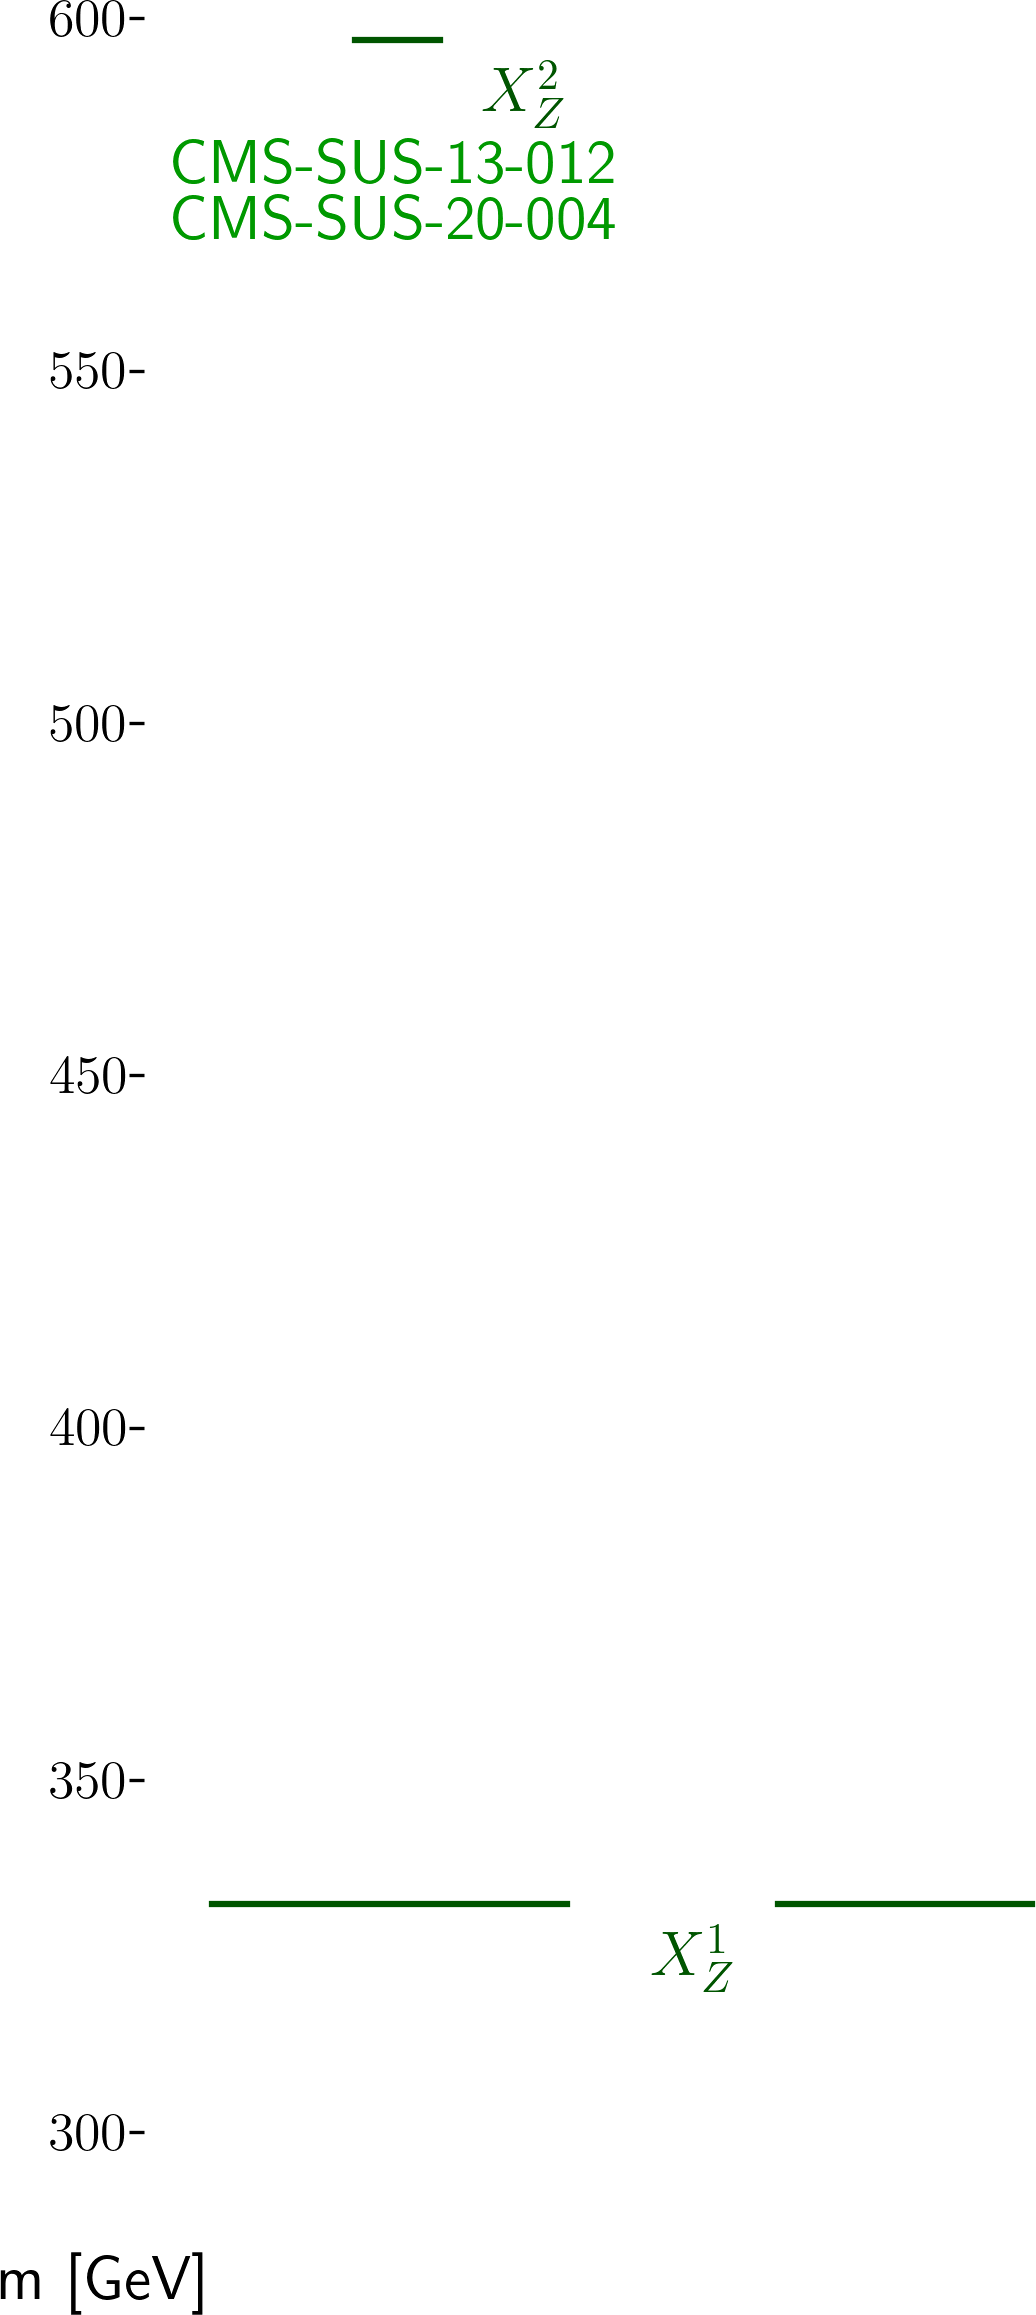
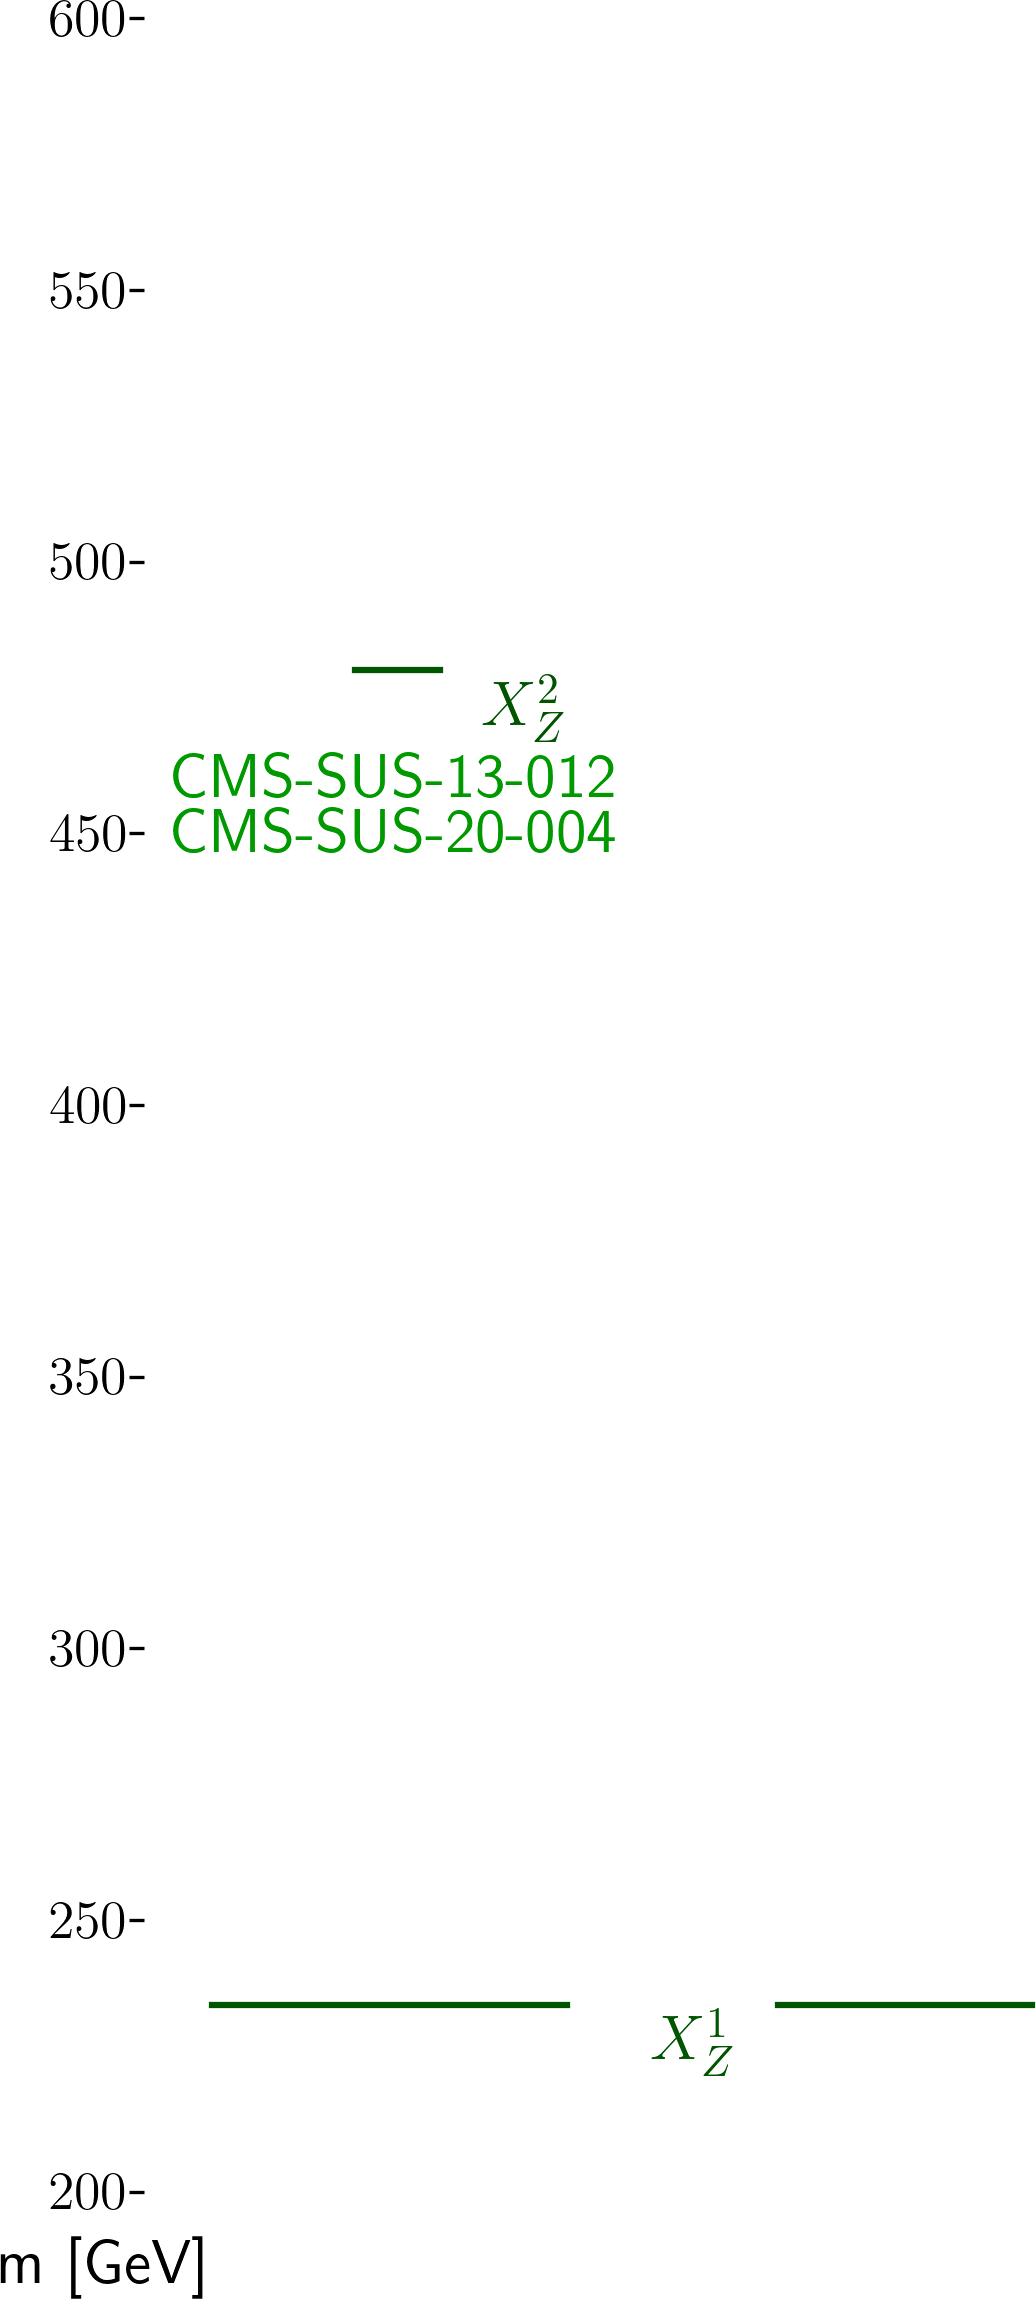
298

diff --git a/protomodels/Z2_230/index.html b/protomodels/Z2_230/index.html
@@ -1,26 +1,26 @@
 <html>
 <body>
 <center>
-<table><td><h1>Current best protomodel: <i>K</i>=3.63, <i>Z</i>=2.42</h1><td><img height=60px src=https://smodels.github.io//protomodels/logos/protomodel_lego.png></table>
+<table><td><h1>Current best protomodel: <i>K</i>=2.98, <i>Z</i>=2.29</h1><td><img height=60px src=https://smodels.github.io//protomodels/logos/protomodel_lego.png></table>
 </center>
-<b><a href=./hiscore.slha>ProtoModel</a> <a href=./pmodel.py>(dict)</a> produced with <a href=https://smodels.github.io//docs/Validation230>database v2.3.0</a>, combination strategy <a href=./matrix.png>aggressive</a> in walker 13 step 82.</b>  SSM plots for: <br>
+<b><a href=./hiscore.slha>ProtoModel</a> <a href=./pmodel.py>(dict)</a> produced with <a href=https://smodels.github.io//docs/Validation230>database v2.3.0</a>, combination strategy <a href=./matrix.png>aggressive</a> in walker 23 step 14.</b>  SSM plots for: <br>
 <table width=80%>
 <tr><td>
 <br><b>4 predictions available. Highest r values are:</b><br><ul>
-<li><a href=http://cms-results.web.cern.ch/cms-results/public-results/publications/SUS-20-004/>CMS-SUS-20-004</a>:TChiHH r=1.90, r<sub>exp</sub>=3.99<br>
-<li><a href=http://cms-results.web.cern.ch/cms-results/public-results/publications/SUS-20-004/>CMS-SUS-20-004</a>:TChiHH r=1.21, r<sub>exp</sub>=2.34<br>
-<li><a href=http://cms-results.web.cern.ch/cms-results/public-results/publications/SUS-21-002/>CMS-SUS-21-002</a>:TChiZH r=0.63, r<sub>exp</sub>=0.75<br>
-<li><a href=https://twiki.cern.ch/twiki/bin/view/CMSPublic/PhysicsResultsSUS13012>CMS-SUS-13-012</a>:TChiZZ r=0.01, r<sub>exp</sub>=0.02<br>
+<li><a href=http://cms-results.web.cern.ch/cms-results/public-results/publications/SUS-20-004/>CMS-SUS-20-004</a>:TChiHH r=0.53, r<sub>exp</sub>=1.11<br>
+<li><a href=http://cms-results.web.cern.ch/cms-results/public-results/publications/SUS-20-004/>CMS-SUS-20-004</a>:TChiHH r=0.40, r<sub>exp</sub>=0.63<br>
+<li><a href=http://cms-results.web.cern.ch/cms-results/public-results/publications/SUS-21-002/>CMS-SUS-21-002</a>:TChiZH r=0.17, r<sub>exp</sub>=0.18<br>
+<li><a href=https://twiki.cern.ch/twiki/bin/view/CMSPublic/PhysicsResultsSUS13012>CMS-SUS-13-012</a>:TChiZZ r=0.00, r<sub>exp</sub>=0.01<br>
 </ul>
 <td><br><b>contributions to K:</b><br>
 <ul>
-<li> <a href=https://twiki.cern.ch/twiki/bin/view/CMSPublic/PhysicsResultsSUS13012>CMS-SUS-13-012</a>: 3.62 (0%)
+<li> <a href=https://twiki.cern.ch/twiki/bin/view/CMSPublic/PhysicsResultsSUS13012>CMS-SUS-13-012</a>: 2.98 (0%)
 <li> <a href=http://cms-results.web.cern.ch/cms-results/public-results/publications/SUS-20-004/>CMS-SUS-20-004</a>: 1.53 (100%)
-<td><img width=600px src=./texdoc.png?1706041686>
-<br><font size=-1>Last updated: Tue Jan 23 21:28:06 2024</font>
+<td><img width=600px src=./texdoc.png?1706099884>
+<br><font size=-1>Last updated: Wed Jan 24 13:38:04 2024</font>
 </table><table style="width:80%">
-<td width=45%><img height=580px src=./ruler.png?1706041686><td width=55%><img height=340px src=./decays.png?1706041686>
-<font size=-3><iframe type="text/html" height="270px" width="100%s" frameborder="0" src="./rawnumbers.html?1706041686"></iframe></font>
+<td width=45%><img height=580px src=./ruler.png?1706099884><td width=55%><img height=340px src=./decays.png?1706099884>
+<font size=-3><iframe type="text/html" height="270px" width="100%s" frameborder="0" src="./rawnumbers.html?1706099884"></iframe></font>
 </table>
 </body>
 </html>

diff --git a/protomodels/Z2_230/rawnumbers.html b/protomodels/Z2_230/rawnumbers.html
@@ -2,5 +2,5 @@
 <tr><th>Analysis Name</th><th>Type</th><th>Dataset</th><th>Topos</th><th>Observed</th><th>Expected</th><th>Approx &sigma;</th><th>Particles</th>
 </tr>
 <tr><td><a href=https://twiki.cern.ch/twiki/bin/view/CMSPublic/PhysicsResultsSUS13012>CMS-SUS-13-012</a></td><td>em</td> <td>6NJet8_500HT800 ...</td><td>TChiZZ</td><td>9</td><td>0.8 +/- 3.3</td><td style="text-align:right">2.4 &sigma;</td><td style="text-align:right">X<sup>2</sup><sub>Z</sub></td></tr>
-<tr><td><a href=http://cms-results.web.cern.ch/cms-results/public-results/publications/SUS-20-004/>CMS-SUS-20-004</a></td><td>comb</td> <td>-</td><td>TChiHH</td><td> 0.3 fb </td><td> 0.1 fb</td><td style="text-align:right">2.2 &sigma;</td><td style="text-align:right">X<sup>2</sup><sub>Z</sub></td></tr>
+<tr><td><a href=http://cms-results.web.cern.ch/cms-results/public-results/publications/SUS-20-004/>CMS-SUS-20-004</a></td><td>comb</td> <td>-</td><td>TChiHH</td><td> 0.3 fb </td><td> 0.1 fb</td><td style="text-align:right">2.1 &sigma;</td><td style="text-align:right">X<sup>2</sup><sub>Z</sub></td></tr>
 </table>

diff --git a/protomodels/Z2_230/pmodel.py b/protomodels/Z2_230/pmodel.py
@@ -1,1 +1,1 @@
-{'masses': {1000022: 322.406, 1000023: 586.946}, 'ssmultipliers': {(1000022, 1000022): 0.0, (1000023, 1000023): 2701532.846}, 'decays': {1000022: {}, 1000023: {(1000022, 23): 0.5, (1000022, 25): 0.5}}, 'xsecs[fb]': {((1000023, 1000023), 8.0): 28.781188554094136, ((1000022, 1000023), 8.0): 0.00012084964670232164, ((1000023, 1000023), 13.0): 145.44026530620465, ((1000022, 1000023), 13.0): 0.00046244382197839246}, 'timestamp': 'Tue Jan 23 21:27:07 2024', 'Z': 2.425, 'K': 3.629, 'walkerid': 13, 'step': 82, 'codever': '2.0', 'smodelsver': '2.3.3', 'dbver': '2.3.0'}
+{'masses': {1000022: 224.401, 1000023: 470.0}, 'ssmultipliers': {(1000022, 1000022): 0.0, (1000023, 1000023): 406932.154}, 'decays': {1000022: {}, 1000023: {(1000022, 23): 0.5, (1000022, 25): 0.5}}, 'xsecs[fb]': {((1000023, 1000023), 8.0): 15.72841927094697, ((1000022, 1000023), 8.0): 9.487864950112432e-05, ((1000023, 1000023), 13.0): 61.798838767374136, ((1000022, 1000023), 13.0): 0.00029662820193205794}, 'timestamp': 'Wed Jan 24 13:37:26 2024', 'Z': 2.288, 'K': 2.985, 'walkerid': 23, 'step': 14, 'codever': '2.0', 'smodelsver': '2.3.3', 'dbver': '2.3.0'}
